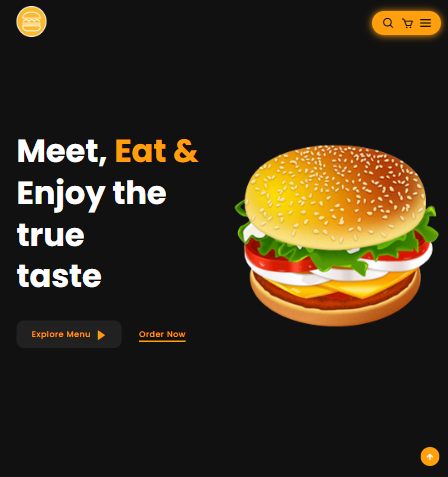
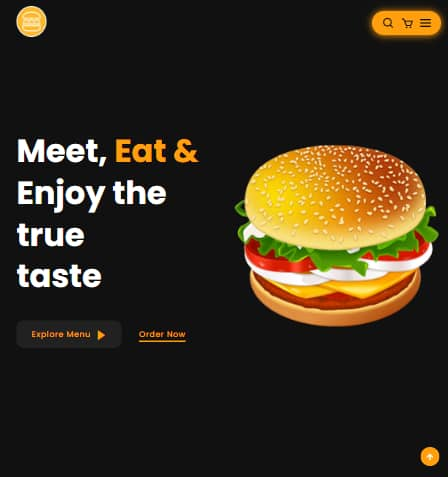
remove, add profile image and and compress projects image

diff --git a/src/pages/AboutPage/index.jsx b/src/pages/AboutPage/index.jsx
@@ -8,8 +8,6 @@ import {
 } from "@mui/icons-material";
 import AboutMe from "./AboutMe";
 import Techno from "./Techno";
-import MyProducts from "./MyProducts";
-import LastProjects from "./LastProjects";
 import TopInfo from "../../components/TopInfo";
 import ContactMe from "./ContactMe";
 import Footer from "../../components/header_footer/Footer";
@@ -32,12 +30,6 @@ export default function AboutPage() {
 
       {/* tecchnologies */}
       <Techno />
-
-      {/* Last projects */}
-
-      {/* <LastProjects /> */}
-      {/* my products */}
-      {/* <MyProducts /> */}
 
       {/* contact me */}
       <ContactMe />

diff --git a/src/helper/projectItems.js b/src/helper/projectItems.js
@@ -2,7 +2,7 @@ import hamburgerProject from "../assets/images/projects-image/hambuger-site.png"
 import photographyProject from "../assets/images/projects-image/photography-site.png";
 import mathApppProject from "../assets/images/projects-image/math-app.png";
 import WeatherApp from "../assets/images/projects-image/weather-app.png";
-import pixernImg from "../assets/images/projects-image/pixern.png";
+import pixernImg from "../assets/images/projects-image/pixern.jpg";
 
 const projectItems = [
   {

diff --git a/src/App.css b/src/App.css
@@ -118,15 +118,19 @@ body {
 }
 
 .top-info-img {
-  max-width: 180px;
-  border-radius: 50%;
+  width: 100%;
+  height: 200px;
+  max-width: 200px;
   overflow: hidden;
   margin-left: 1rem;
   cursor: pointer;
+  border-radius: 10px;
 }
 
 .top-info-box img {
+  margin-top: 10px;
   width: 100%;
+  transform: scale(1.3);
 }
 
 .top-info-text {

diff --git a/src/components/TopInfo.jsx b/src/components/TopInfo.jsx
@@ -1,6 +1,6 @@
 import React from "react";
 import { ReactTyped } from "react-typed";
-import ImageProfil from "../assets/images/profil.jpg";
+import ImageProfil from "../assets/images/profile/profile.png";
 import NavSide from "./header_footer/info/NavSide";
 import TitleTop from "./TitleTop";
 import { Box, Button } from "@mui/material";
